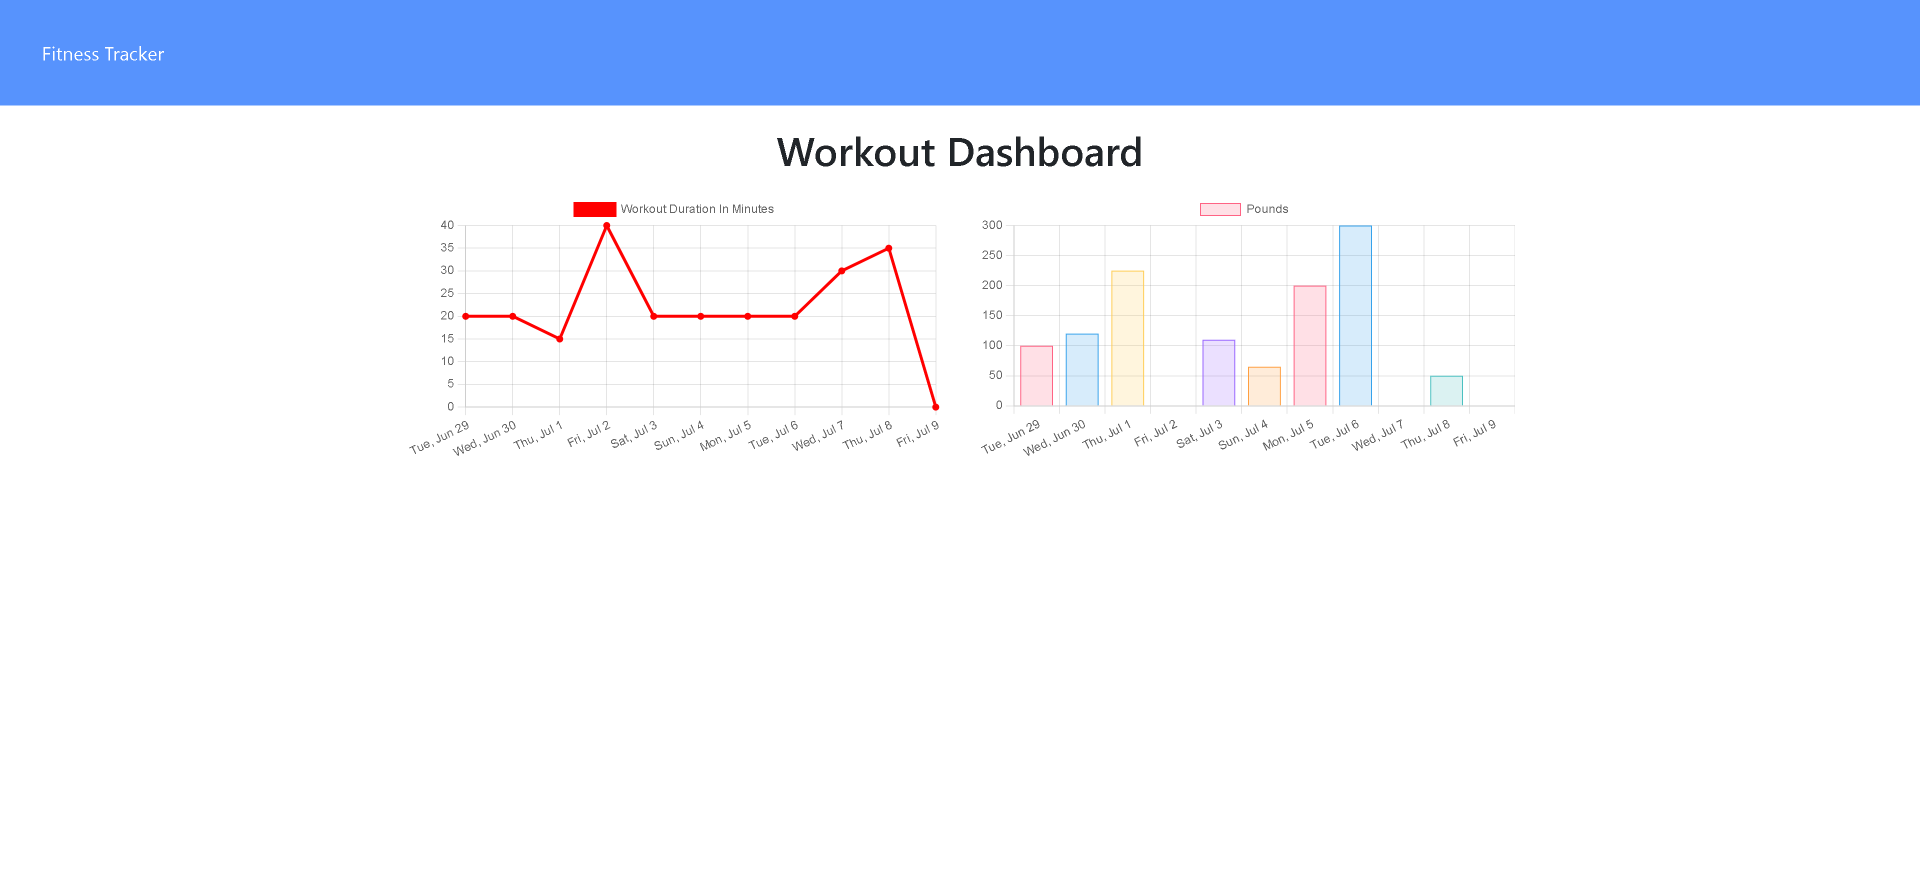
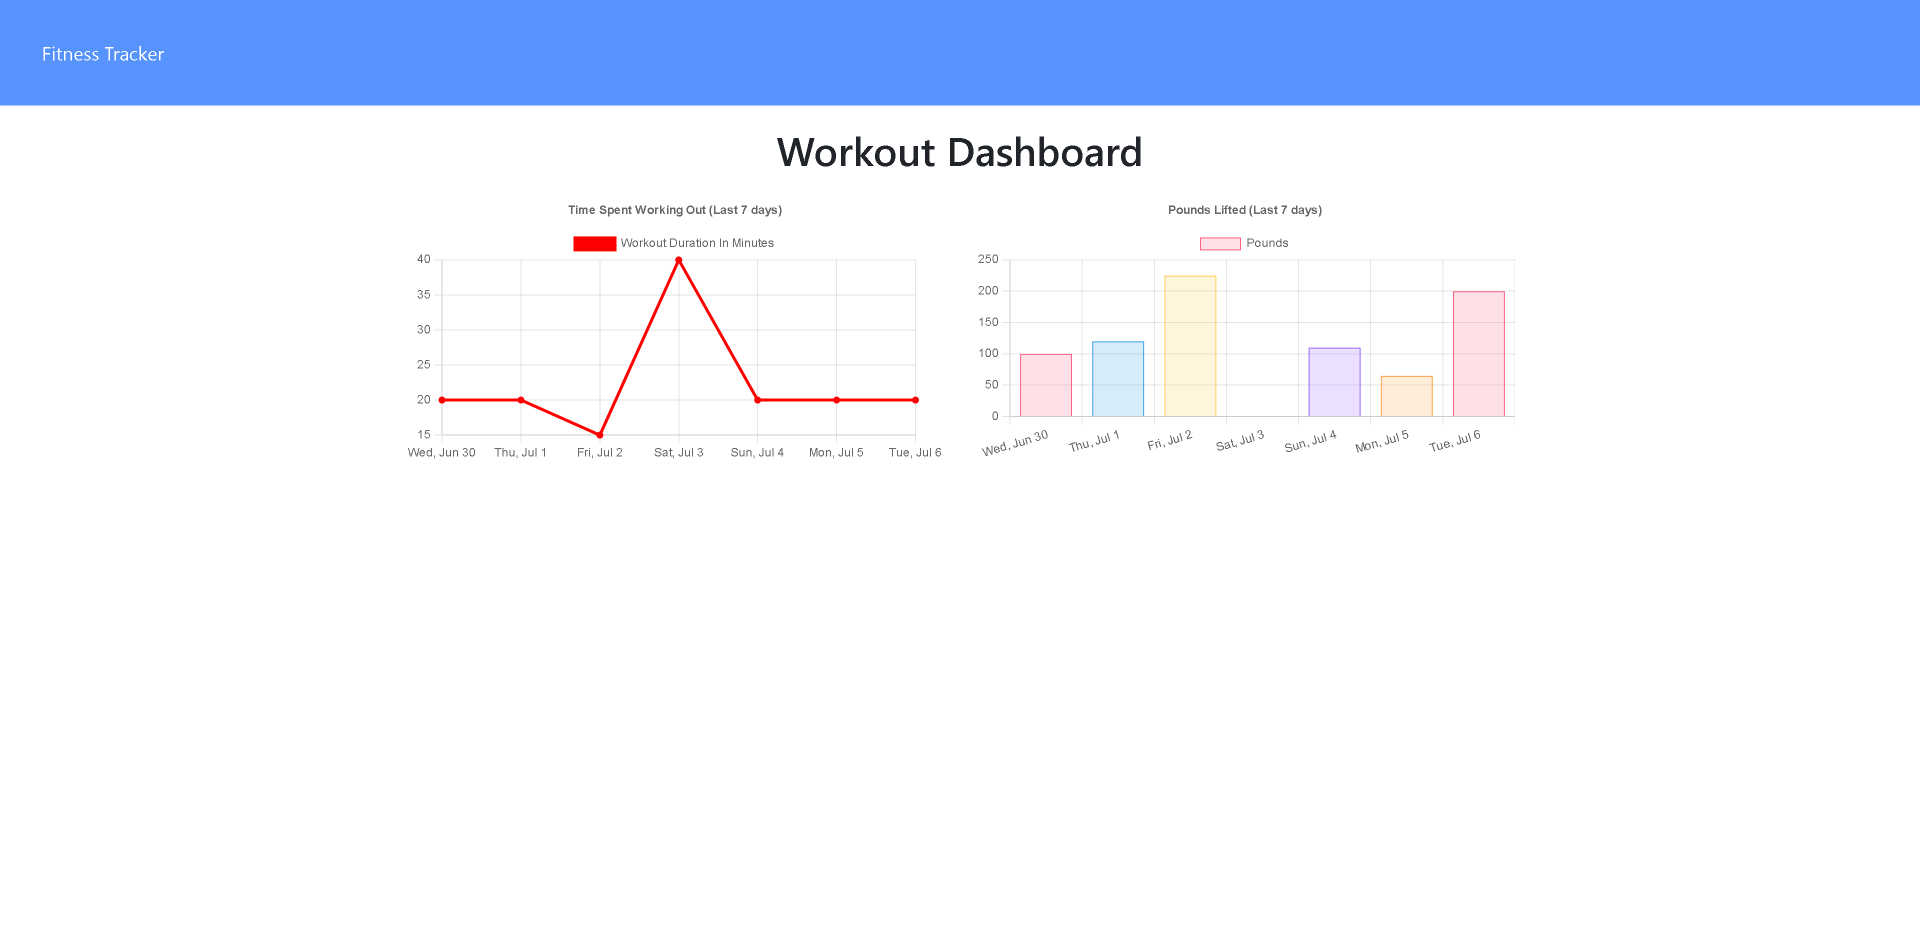
readme update image

diff --git a/routes/api/workoutRoutes.js b/routes/api/workoutRoutes.js
@@ -5,17 +5,18 @@ const Workout = require('../../models/workout');
 // GET all workouts/last workout
 router.get('/workouts', (req, res) => {
     try {
-        Workout.find({})
-        Workout.aggregate(
-            [{
-                "$addFields": {
-                    "totalDuration": { "$sum": "$exercises.duration" }
+        Workout.find().then(data => {
+            Workout.aggregate(
+                [{
+                    "$addFields": {
+                        "totalDuration": { "$sum": "$exercises.duration" }
+                    },
+                }],
+                (err, results) => {
+                    res.json(results);
                 }
-            }],
-            (err, results) => {
-                res.json(results);
-            }
-        );
+            );
+        });
     } catch (err) {
         res.json(err);
     };

diff --git a/README.md b/README.md
@@ -1,5 +1,5 @@
 # Healthy-Mongoose
-This application allows you to track your workouts and reach your fitness goals. When you visit you can continue with a past workout, or make a new one. After creating a workout and adding exercises, you can see how your stats increase for each exercise you add. When you visit the dashboard page, you will see the combined stats of the past seven workouts. Healthy Mongoose makes it easy to stay in shape!
+This application allows you to track your workouts and reach your fitness goals. When you visit you can add exercises to your last workout or make a new one. After adding exercises, you can track your progress via the stats page. In the stats page, you will see the combined weight lifted, and the duration for each of the past seven workouts. Healthy Mongoose makes it easy to stay in shape!
 
 ![Fitness Tracker](public/images/fitnesstracker.png)
 ![Add Exercise](public/images/addexercises.png)
@@ -11,9 +11,9 @@ If you want to edit this app you must have a Github account, have downloaded Nod
 
 - Create a Github account here: [Github](https://github.com/)
 - Download Visual Studio here: [Visual Studio](https://code.visualstudio.com/download/)
-- Download MongoDb here: [MongoDB](https://www.mongodb.com/)
+- Download MongoDB here: [MongoDB](https://www.mongodb.com/)
 - Download Robo 3T here: [Robo 3T](https://robomongo.org/)
-- Download Node.js: [Node.js](https://nodejs.org/en/)
+- Download Node: [Node.js](https://nodejs.org/en/)
 - Repository link: [Healthy Mongoose Repo](https://github.com/scottgeleas/Healthy-Mongoose)
 
  ### Authors:
